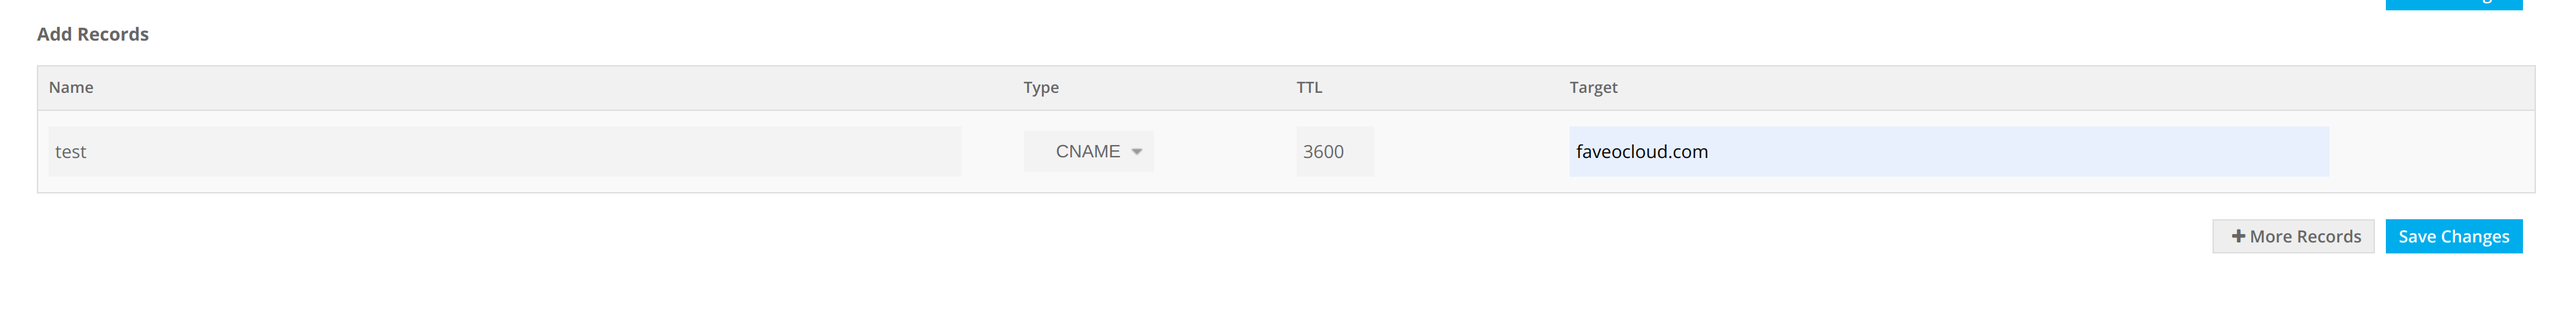
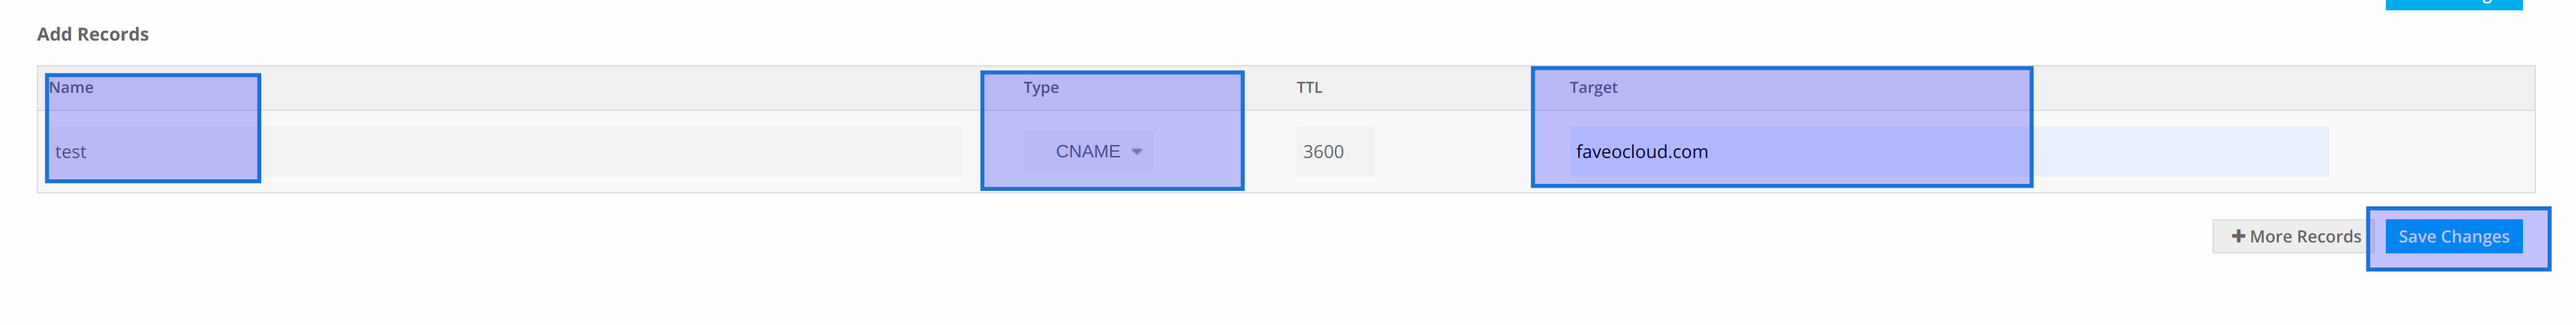
added custom domain docs

diff --git a/_docs/helpers/cname.md b/_docs/helpers/cname.md
@@ -8,22 +8,50 @@ last_modified_at: 2023-05-29
 toc: true
 ---
 
-# Creating custom domains for Faveo Cloud <!-- omit in toc -->
+# Creating Custom Domains for Faveo Cloud <!-- omit in toc -->
 
-This document will guide you on how to create a custom domain for your faveo cloud instance.
+This document will guide you on how to create a custom domain for your Faveo Cloud instance.
 
-## Custom Domain creation:
+## Custom Domain Creation:
 
-### Prerequisties:
+### Prerequisites:
 
-1. To create a custom domain you need to have a domain registered with any vendor like GODADDY, NAMECHEAP, FREENOM etc..
+1. To create a custom domain, you need to have a domain registered with any vendor like GoDaddy, Namecheap, Freenom, etc.
 
-2. And you need to have access to the DNS management of the domain, you can get this from the vendor from whomever you purchased the domain.
+2. You also need to have access to the DNS management of the domain. You can obtain this information from the vendor from whom you purchased the domain.
 
-### To create a custom domain you need to create a CNAME Record follow the below to do the same:
+### To create a custom domain, follow the steps below to create a CNAME record:
 
-1. Login to the Domain registrar portal which has the access to the DNS Management. below is the example on how it looks here we are showing with FREENOM Domain registrar.
+1. Log in to the domain registrar portal that has access to the DNS management. Below is an example of how it looks. Here, we are showing an example with Freenom domain registrar.
 
-<img alt="" src="_docs/helpers/images/loginpage.png" style=" width:550px ; height:250px "/>
+<img src="https://github.com/ladybirdweb/faveo-server-images/blob/master/_docs/helpers/images/loginpage.png?raw=true" alt="" />
 
-2. Once logged in the dashboard may vary with diffe
+2. Once logged in, the dashboard may vary with different vendors. Please search for the list of services and find the domain list, as shown below.
+
+<img src="https://github.com/ladybirdweb/faveo-server-images/blob/master/_docs/helpers/images/selectingservice.png?raw=true" alt="" />
+
+3. After selecting the services, you will see the domains and services purchased from the vendor. Here, you can see three domains. Select the domain on which you want to create the custom domain.
+
+<img src="https://github.com/ladybirdweb/faveo-server-images/blob/master/_docs/helpers/images/managedomain.png?raw=true" alt="" />
+
+4. Click on the manage domain and go to the domain page. You will find an option called "DNS Management." Click on it.
+
+<img src="https://github.com/ladybirdweb/faveo-server-images/blob/master/_docs/helpers/images/dnsmanagement.png?raw=true" alt="" />
+
+5. This will take you to a page where you can add DNS records, as shown below.
+
+<img src="https://github.com/ladybirdweb/faveo-server-images/blob/master/_docs/helpers/images/recordadding.png?raw=true" alt="" />
+
+6. This is the final step for creating a custom domain. Enter the custom name you want for your domain (e.g., "***test.faveocloud.com***"). "***test***" represents the custom domain. Then, select the type from the dropdown menu as "***CNAME***" record. For some vendors, there may be an option to create the record type with a click button. After selecting the record type, enter the value for the record. The value should be "faveocloud.com," as shown in the snapshot below.
+
+<img src="https://github.com/ladybirdweb/faveo-server-images/blob/master/_docs/helpers/images/recordadding.png?raw=true" alt=""  />
+
+7. Once the record is added, you will receive a success message on your dashboard, as shown below.
+
+<img src="https://github.com/ladybirdweb/faveo-server-images/blob/master/_docs/helpers/images/addedsuccess.png?raw=true" alt=""  />
+
+8. The propagation of the custom domain may take 2 to 4 hours, depending on your vendor's DNS speed. You can check the status of propagation using any DNS checker in your browser, such as [dnschecker](https://dnschecker.org/).
+
+9. Once the domain is propagated, you are good to go.
+
+***Custom domain created successfully.***
